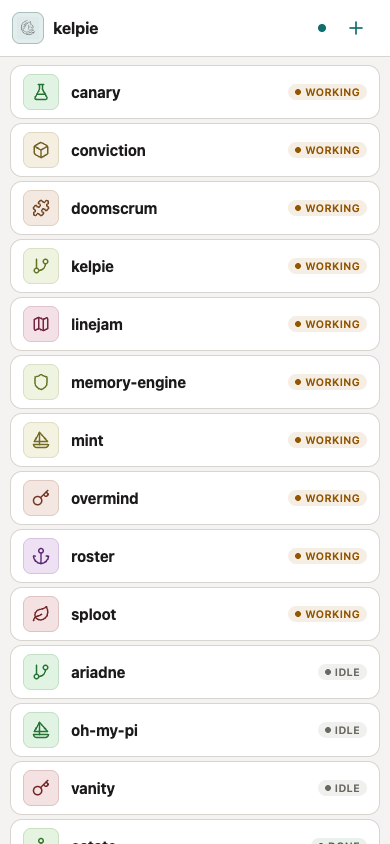
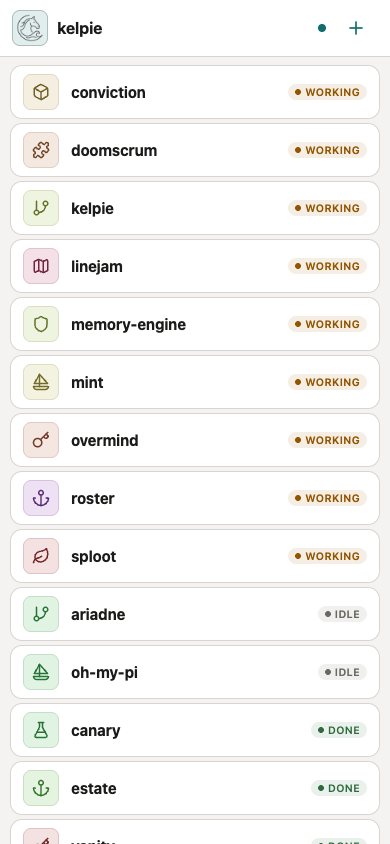
inbox: larger cropped kelpie mark in the header
Crop the mark to its content bbox (art was only ~63% of canvas) and
render at 28px in a 36px tile so the horse-and-wave reads at header
size in both themes.

diff --git a/static/style.css b/static/style.css
@@ -242,8 +242,8 @@ button { font-family: inherit; -webkit-tap-highlight-color: transparent; }
 }
 .kelpie-brand h1 { flex: none; }
 .kelpie-mark {
-  width: 32px;
-  height: 32px;
+  width: 36px;
+  height: 36px;
   display: grid;
   place-items: center;
   flex-shrink: 0;
@@ -252,7 +252,7 @@ button { font-family: inherit; -webkit-tap-highlight-color: transparent; }
   color: var(--accent);
   border: 1px solid color-mix(in srgb, var(--accent) 22%, var(--hairline));
 }
-.kelpie-mark img { width: 22px; height: 22px; display: block; }
+.kelpie-mark img { width: 28px; height: 28px; display: block; }
 /* The mark is dark line art on transparent; flip it light in dark mode. */
 @media (prefers-color-scheme: dark) {
   .kelpie-mark img { filter: invert(1) brightness(0.9); }

diff --git a/static/js/views/inbox.js b/static/js/views/inbox.js
@@ -20,7 +20,7 @@ const InboxView = {
     const wrap = h('div', { class: 'view inbox-view', style: 'display:flex;flex-direction:column;height:100%;min-height:0;' });
     const hdr = h('div', { class: 'hdr' }, [
       h('div', { class: 'kelpie-brand' }, [
-        h('span', { class: 'kelpie-mark' }, [h('img', { src: 'kelpie-mark.png', alt: '', width: '22', height: '22' })]),
+        h('span', { class: 'kelpie-mark' }, [h('img', { src: 'kelpie-mark.png', alt: '', width: '28', height: '28' })]),
         h('h1', null, 'kelpie'),
       ]),
       h('span', { class: 'dot ' + (sse.connected ? 'up' : 'down'), id: 'conn-dot' }),